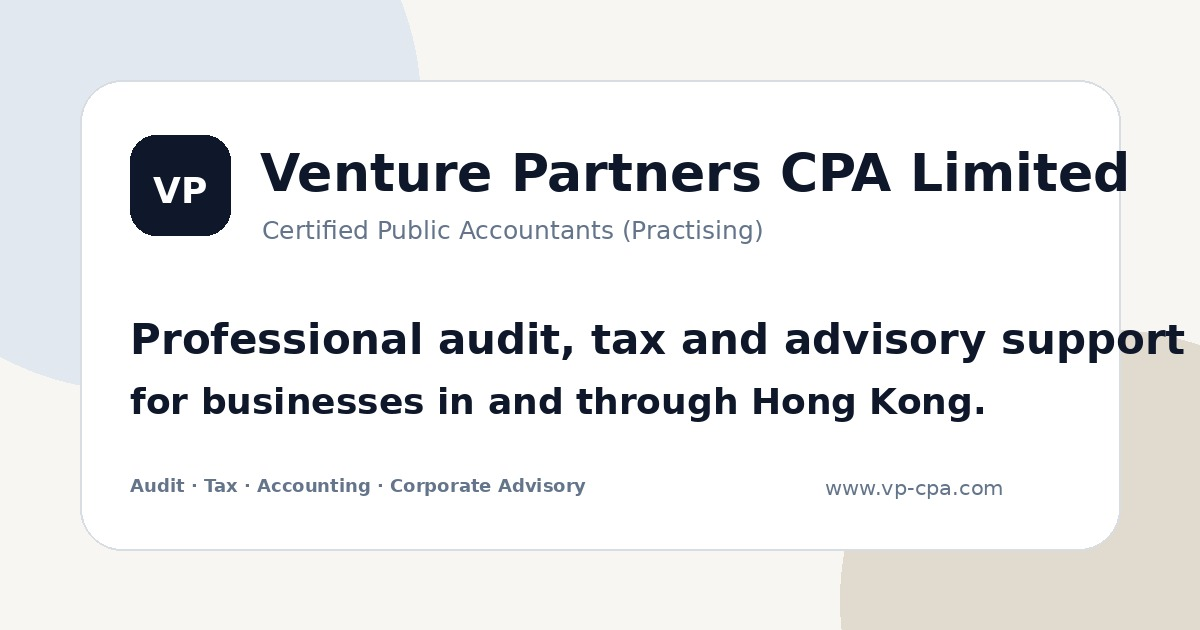
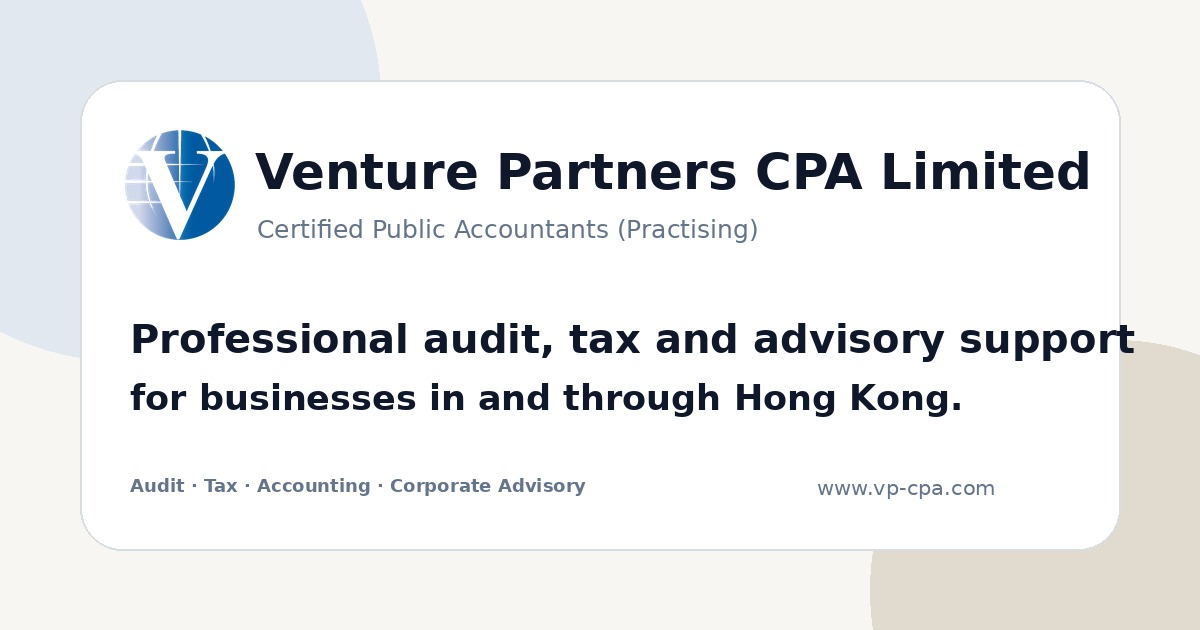
Add files via upload

diff --git a/README.md b/README.md
@@ -1,40 +1,19 @@
-# VPCPA Static HTML v8
+# VPCPA Static HTML v9
 
-This version adds launch-ready brand assets.
+This version replaces the placeholder brand assets with assets derived from the actual VPCPA logo provided by the user.
 
-## Key updates from v7
+## Key updates from v8
 
-1. favicon.png added.
-2. favicon.ico added.
-3. apple-touch-icon.png added.
-4. og-image.jpg added for WhatsApp, LinkedIn and social sharing preview.
-5. HTML head updated with favicon.ico fallback.
-6. v7 dropdown menu and all service pages retained.
+1. favicon.png regenerated from the actual company logo.
+2. favicon.ico regenerated from the actual company logo.
+3. apple-touch-icon.png regenerated from the actual company logo.
+4. og-image.jpg regenerated using the actual company logo.
+5. brand-mark-source.png stored under assets/images for reference.
+6. If no header logo file existed, vpcpa-logo.png has been created from the supplied logo image.
 
-## Pages included
+## Important note
 
-index.html
-about.html
-services/audit-and-assurance.html
-services/taxation.html
-services/accounting-and-bookkeeping.html
-services/corporate-secretarial.html
-services/business-advisory.html
-services/sfc-licensed-corporations.html
-
-## Important logo instruction
-
-Copy the official logo file to:
-
+If you have a separate full horizontal logo for the website header, you can still overwrite:
 assets/images/vpcpa-logo.png
 
-The generated favicon and social image use a clean VP mark. They can be replaced later if you want them to use the exact official logo mark.
-
-## Recommended final checks
-
-1. Confirm logo displays correctly after copying vpcpa-logo.png.
-2. Open index.html, about.html and all service pages.
-3. Test desktop dropdown menu.
-4. Test mobile menu.
-5. Check Email and Telephone links.
-6. Upload to hosting test environment before pointing the live domain.
+The generated icon assets already use the supplied company logo mark.